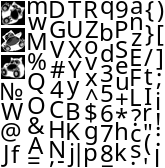
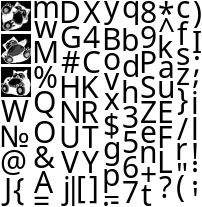
docs: add bitmap font generation instructions

diff --git a/resources/fonts/pokemon-bitmap-font-assets/README.md b/resources/fonts/pokemon-bitmap-font-assets/README.md
@@ -1,0 +1,9 @@
+# Font Generation
+
+1. Run `./convert.sh`.
+2. Go to <https://snowb.org/> and add pngs to glyps. Assign glyph character as `0`, `1`, and `2` (per filename).
+3. Set font size to `30`.
+4. Export as `BMFont TEXT`.
+5. Open `.fnt` file and change `page=-1` for first `char` to `page=0`.
+
+Sprites are obtained from <https://pokemondb.net/sprites/>.
